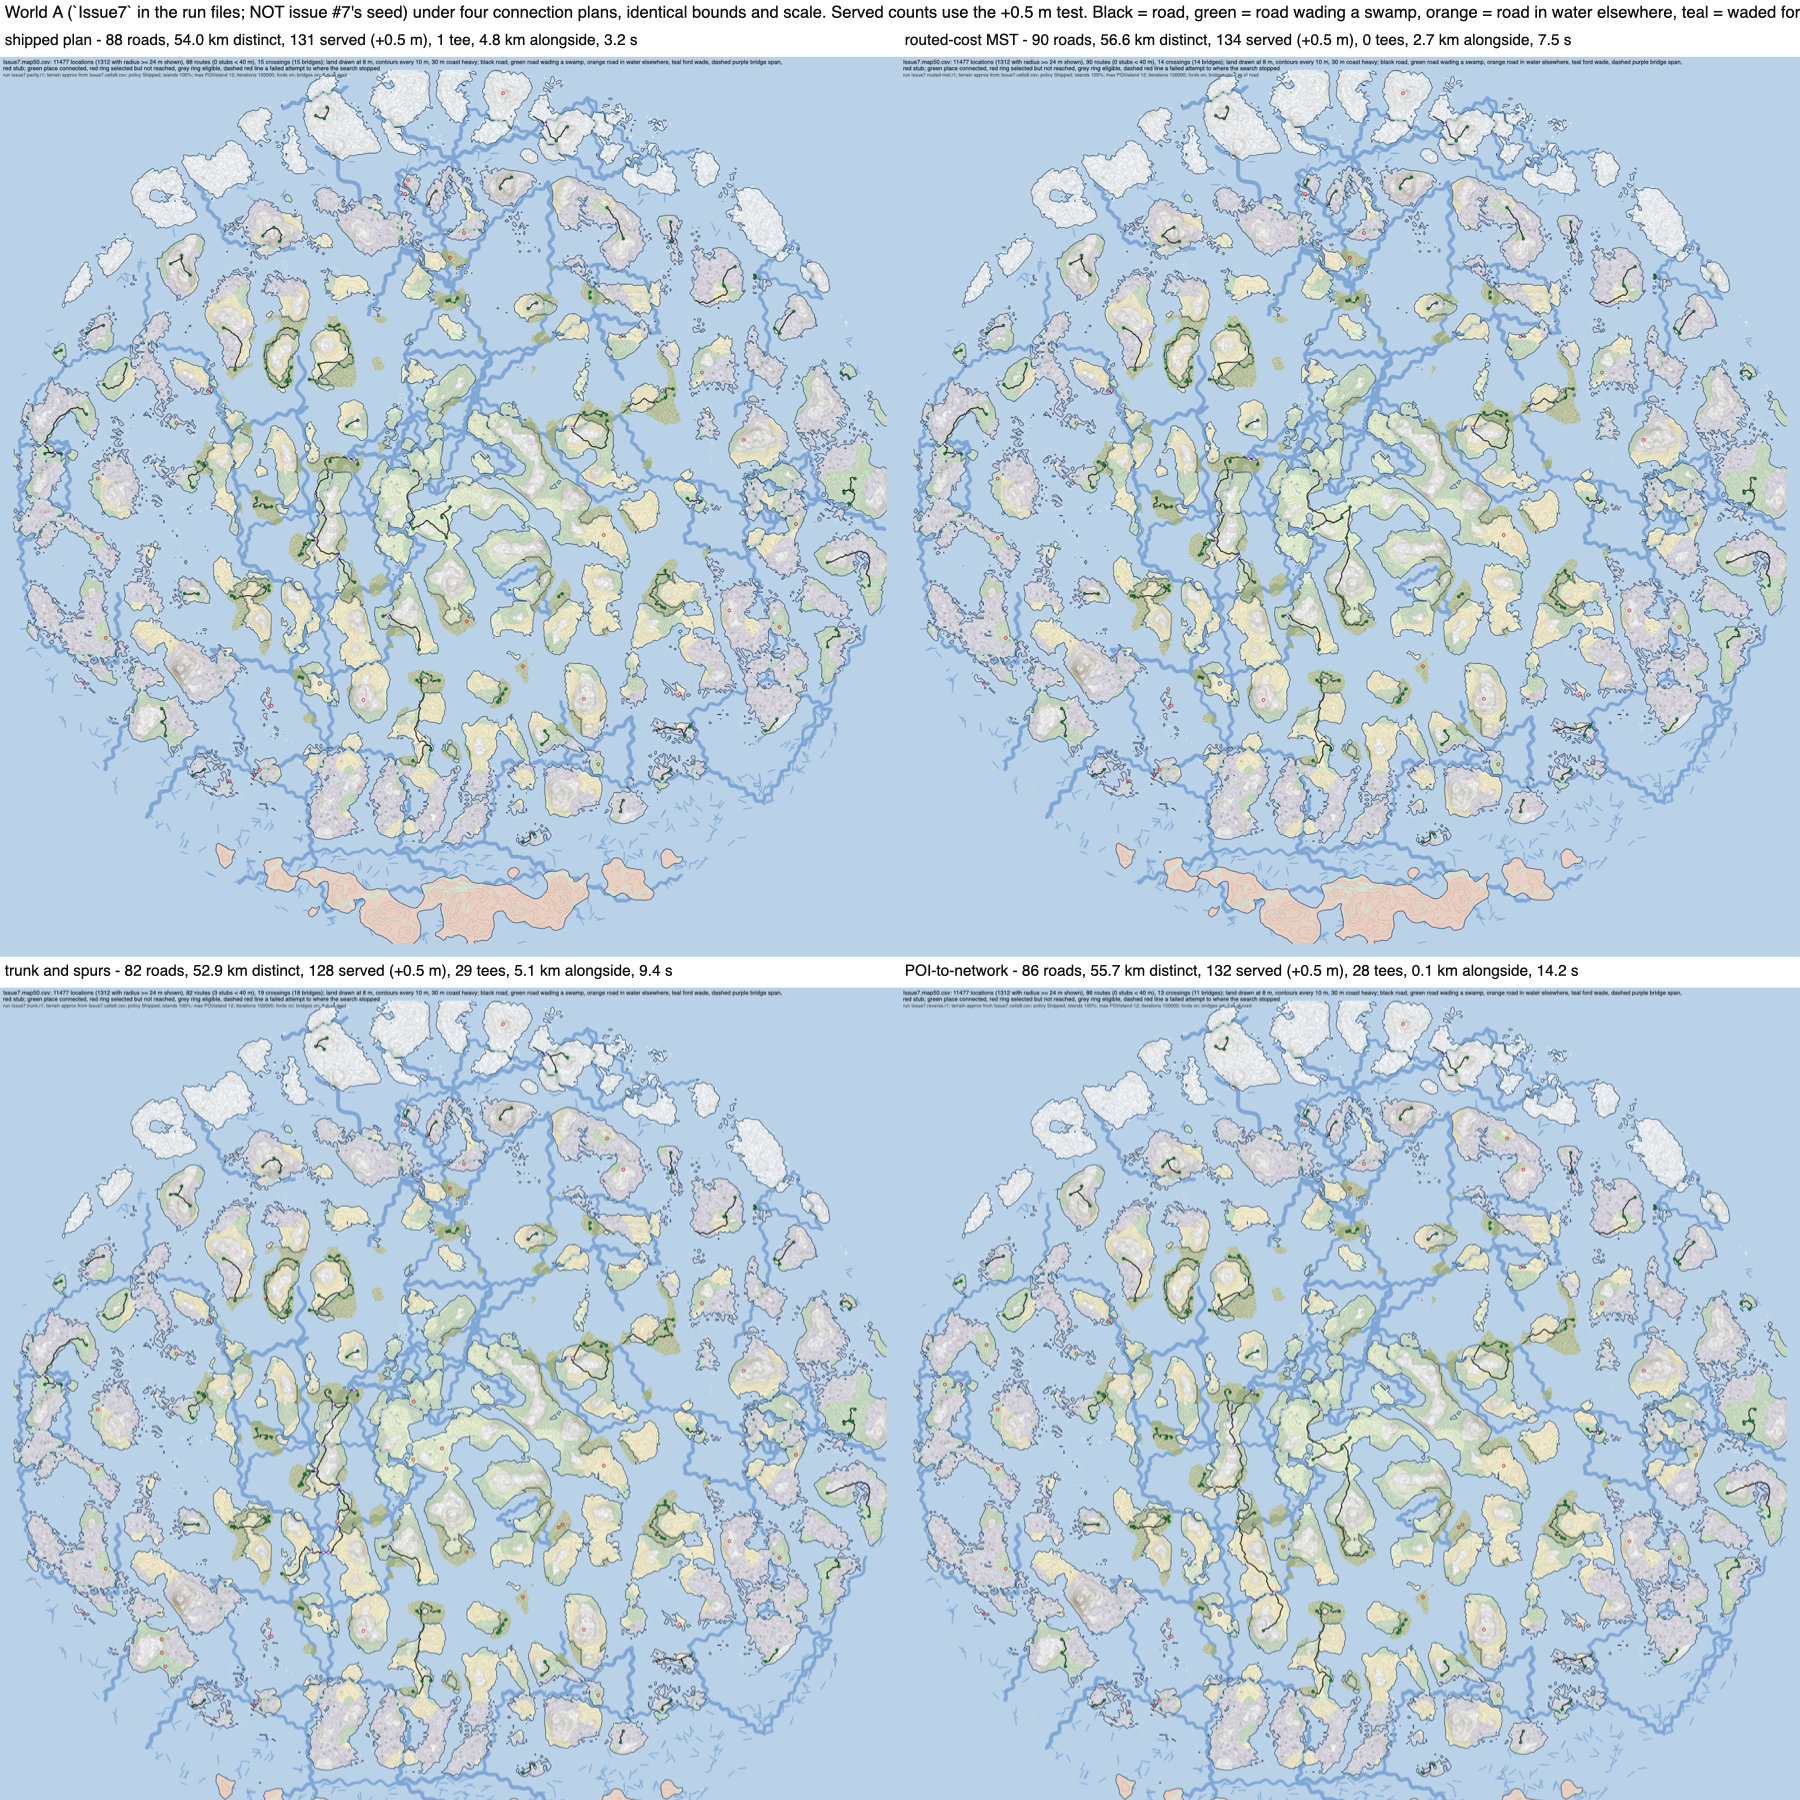
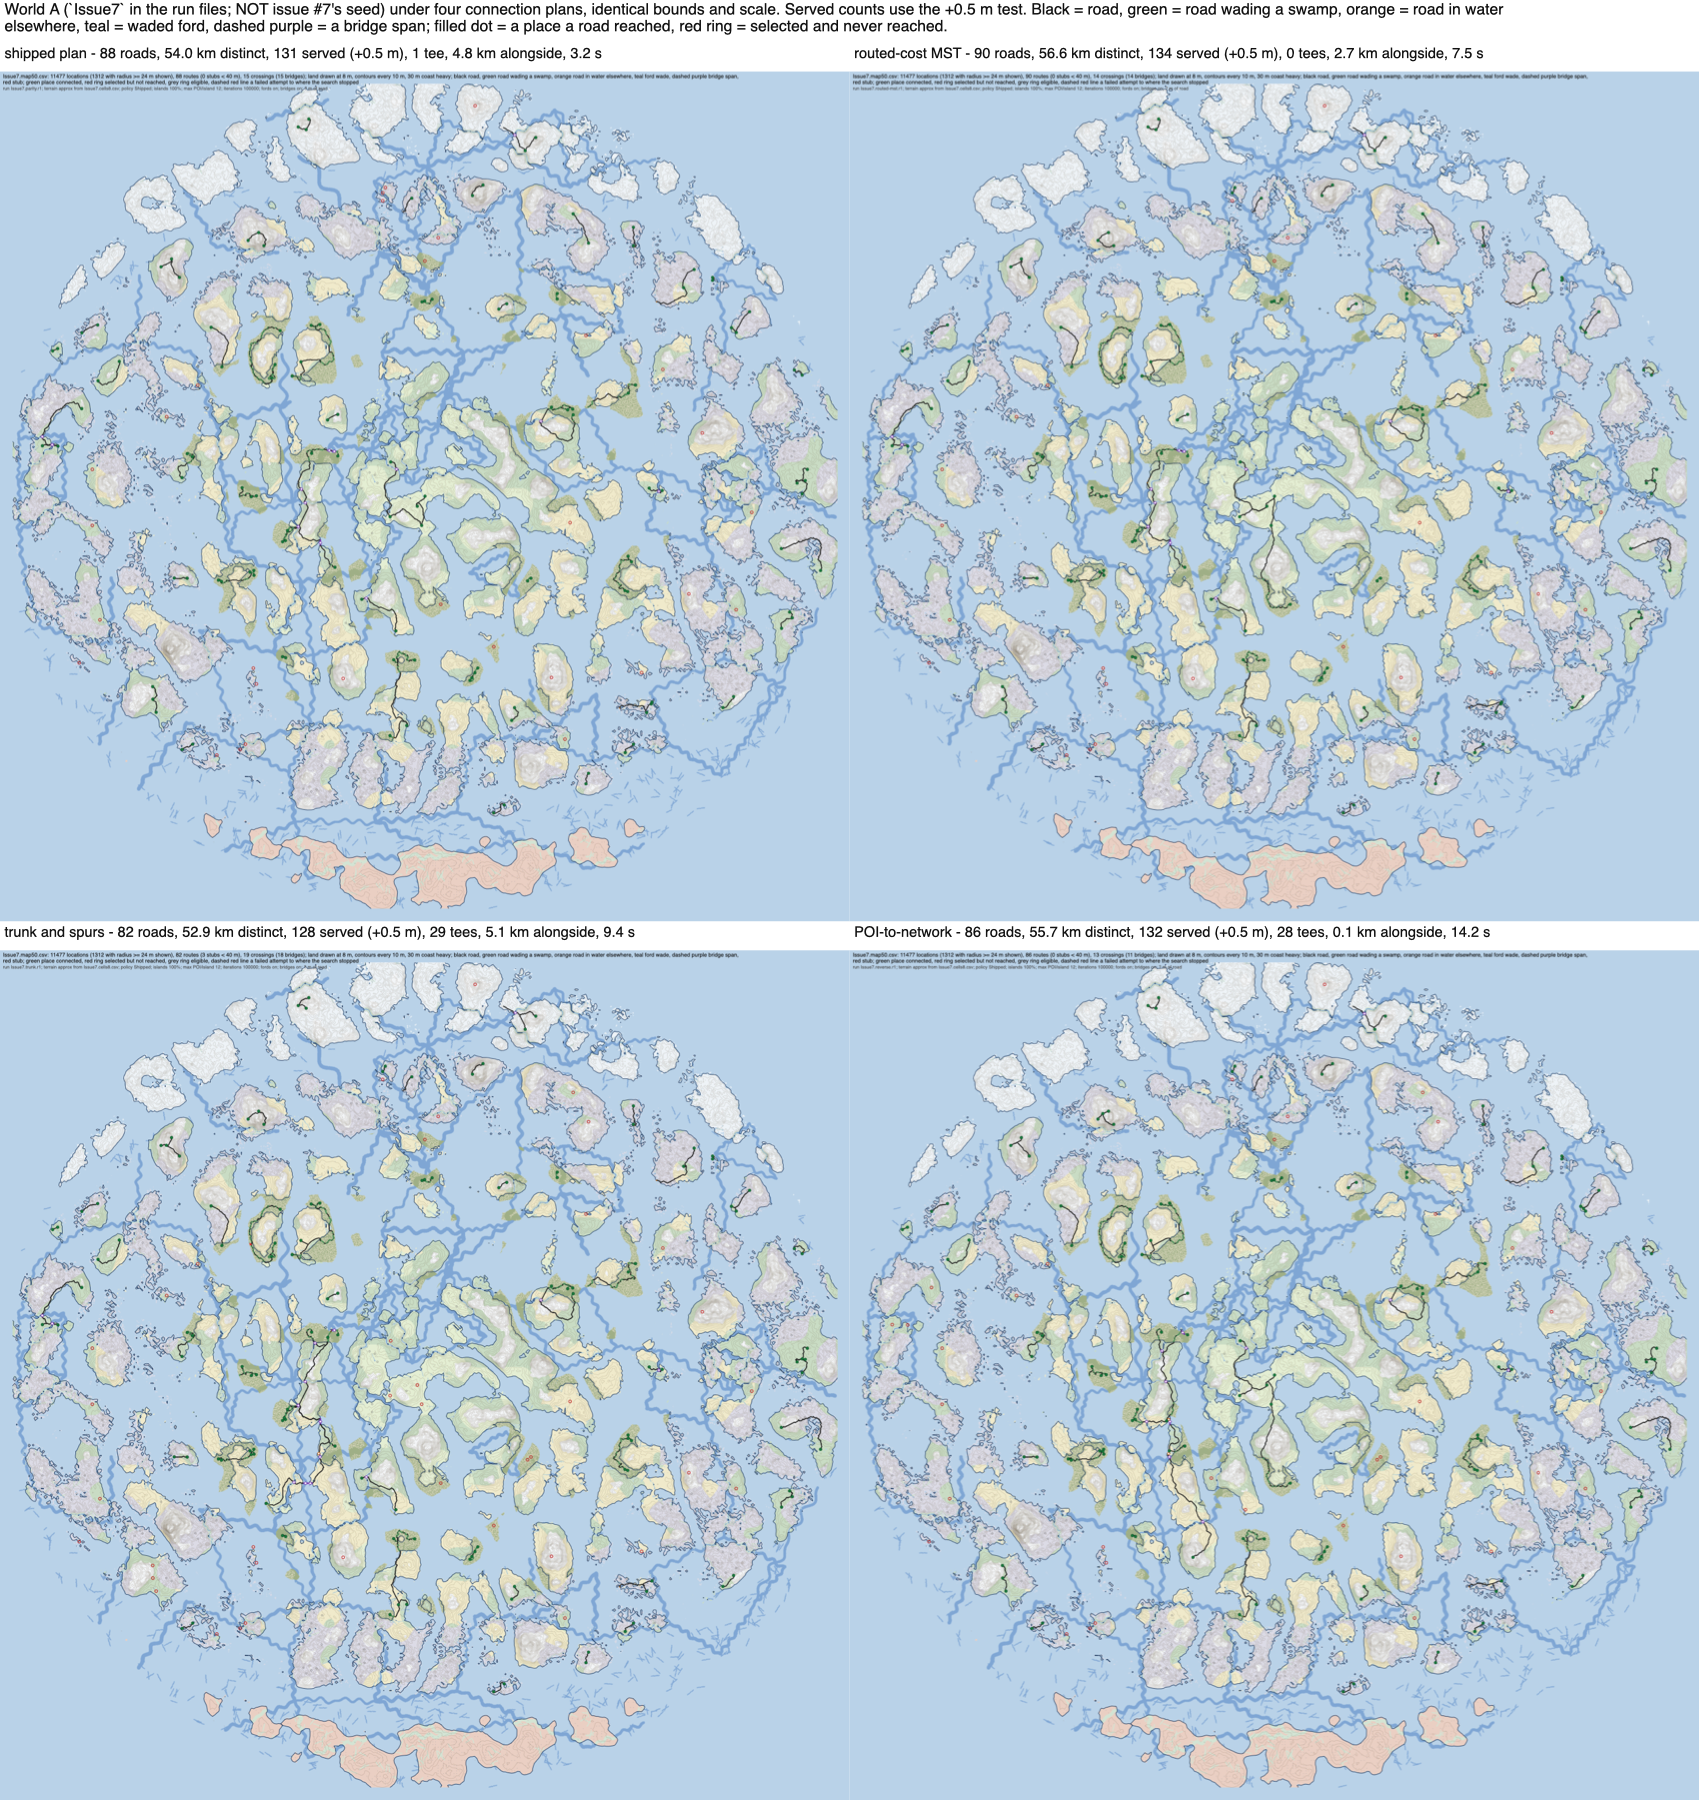
study data: regenerate the funnel, and stop the captions running off the images
The funnel was never regenerated -- only its pinned URL was changed, which
preserved a figure titled 'issue seed', reporting 129 planned-and-built where
the table beside it says 128 connected, with its largest value clipped off the
right-hand edge. Rebuilt from the table's own numbers, titled world A, nothing
clipped, and published in study-2026-09-10; the 2026-09-09 copy stays as the
historical artifact.

The clipping had the same cause as the charts': the rasteriser fits a drawing
into a square canvas and picks the dimension by aspect ratio, so a wide short
chart loses its right edge. study-charts.py now pads to a square like
study-comparison.py, and island-sheet.py wraps titles and panel captions into
space it reserves for them rather than writing one line and hoping.

world-svg.py gains --mark x,z[,label], which put a ring on the junction the tee
figure is about -- and immediately earned itself: the shipped plan lays no road
within 290 m of that spot, so the panel's caption, which had described one road
crossing it, was wrong. The two plans route this ground differently, and the
figure now says that.

diff --git a/docs/road-network-strategies.md b/docs/road-network-strategies.md
@@ -65,8 +65,11 @@ connection. The endpoint-height screen on world A helps prioritise inspection;
 it does not bound traversal risk. Gameplay validation remains outstanding, and
 nothing here has been played.
 
-Every chart and map in this document plots the **+0.5 m** serving count, which
-is 5 to 8 higher per run than the strict one; the tables give both.
+The planner-comparison charts and the world and island maps use **served
+(+0.5 m)**. The quota chart uses the strict served count; the funnel reports
+selection and connection outcomes, not coverage; the plateau, shore and centre
+charts do not measure coverage at all. Each figure names its own metric. Across
+the twelve planner runs the tolerance adds between 2 and 10 places.
 
 ![four planners, three worlds: coverage, road and time](https://raw.githubusercontent.com/tvongaza/ProceduralRoads/3d14749e6451e25fd5e34d7ae884e50db94745a4/validation-results/screenshots/study-2026-09-10/chart-tradeoff.png)
 
@@ -145,7 +148,7 @@ Defined once, used throughout.
 | **planning searches** | pathfinder calls a plan ran to *price* a candidate edge before choosing. They lay no road and are not in the attempt log. |
 | **total searches** | the two added. This is the work a plan costs. |
 | **roads** | searches that returned a route and were painted. |
-| **planned and built** | places sitting at an end of one of those roads, matched by the place's own coordinates within 1.5 m. |
+| **planned and built** | places sitting at an end of one of those roads, matched by the place's own coordinates within 1.5 m. On the study baseline this is 129 against the 128 selected places connected, the extra one being the start temple, which is an anchor rather than a destination. |
 | **served** | places with a road end within 25 m, or within the place's own exterior radius if that is larger. |
 | **distinct road** | length of road on the ground, counting a stretch used twice once. |
 | **summed over routes** | every route's length added up, so shared road counts twice. |
@@ -186,7 +189,13 @@ Of the eligible places, by what became of them:
 | attempted, search frontier exhausted | 29 | 32 | 29 |
 | attempted, iteration budget spent | 1 | 0 | 1 |
 
-![the funnel from placed to connected](https://raw.githubusercontent.com/tvongaza/ProceduralRoads/3d14749e6451e25fd5e34d7ae884e50db94745a4/validation-results/screenshots/study-2026-09-09/chart-funnel.png)
+![the funnel from placed to connected](https://raw.githubusercontent.com/tvongaza/ProceduralRoads/3d14749e6451e25fd5e34d7ae884e50db94745a4/validation-results/screenshots/study-2026-09-10/chart-funnel.png)
+
+The funnel's last bar is the table's last row, 128 — selected places whose
+planned road was built. **Planned and built** counts 129 on the same run,
+because it counts every place at the end of a road rather than only the
+selected ones, and the 129th is the start temple, which is an anchor rather
+than a road destination.
 
 **Ninety-three per cent of eligible places never get an attempt.** The quota is
 `2 + area / 2 km²`. These worlds have a median island under 2 km², so more than
@@ -533,7 +542,9 @@ least efficient point on the curve for road per place reached.
 Arrangement alone moves coverage from 109 to 142, a wider spread than any
 planner change measured here: choosing destinations near one another is worth
 more than choosing cleverly between them, and deliberately spreading them —
-which sounds like what a road network wants — is the worst of the four.
+which sounds like what a road network wants — spends the most road per place
+reached of the four, 731 m against 305. The fewest places served is the fixed
+draw's 109.
 
 | preset | selected | roads | summed | served | connect rate |
 |---|---|---|---|---|---|
@@ -563,7 +574,8 @@ measurement in the study.
 | bridges only | 57 | 30.6 km | 86 |
 | both | 88 | 58.5 km | 123 |
 
-Crossings are worth more than any other single lever measured. In game, on one
+Crossings are worth more than any other **routing** switch measured — the quota
+in the table above moves coverage far further. In game, on one
 world state: neither, 49 roads; fords only, 90 roads with **three river fords in
 the whole world**; both, 98 roads with 15 crossings. Fords add 41 roads and
 almost none of it is river crossing — it is the swamp wading that comes with the
@@ -581,8 +593,8 @@ builds the same network out of less road; it does not reach more places.**
 ## 6. Recommendation, and what would change it
 
 **Improve selection first.** Arrangement at a fixed count moves coverage by 33
-places where no planner moved it by more than 5. If one change is made, make
-the quota choose priority-then-nearest.
+places on world A, where on that world no planner moved it by more than 5. If
+one change is made, make the quota choose priority-then-nearest.
 
 **Advance two planners, for different reasons.** Routed-cost MST is the
 strongest candidate for preserving destination coverage among those tested —
@@ -595,13 +607,16 @@ has not been run.
 
 **Deprioritise trunk-and-spurs**, which buys junctions by not reaching things.
 
-**Raise the shipped iteration budget, but expect little above 30 000.** The
-"one attempt in 158" figure everywhere else in this document is at the study
-baseline's 100 000. The mod ships at **10 000**, where 33 of 158 attempts stop
-at the cap, and on world A raising it recovers real coverage: 10 000 → 30 000
-takes 74 roads to 84 and 108 places served to 118, and 30 000 → 100 000 adds
-four roads and five places. What it cannot do is reach the ~93 % of eligible
-places that selection never chose, which is the issue's actual cause.
+**Test 30 000 as a candidate iteration default.** On world A, with every other
+study setting held constant, it added ten roads and ten strictly served places
+over the shipped 10 000 — where 33 of 158 attempts stop at the cap, against one
+at the study baseline's 100 000, which is the figure quoted everywhere else
+here. Above 30 000 the returns are small: 30 000 → 100 000 adds four roads and
+five places. Two limits on that: the sweep varies the iteration value inside
+the study configuration (every island, both crossings), not a whole shipped
+default; and no budget reaches the ~93 % of eligible places selection never
+chose. **Selection remained the dominant source of sparseness in the worlds
+tested; the reporter's world remains untested.**
 
 **What evidence would change this.** One table, in order of how much each would
 move the recommendation.
@@ -654,8 +669,8 @@ from the game's line and one existed only in game.
 | grow from the network | nearest waiting place attaches to the nearest point on the road | world A | 82 roads, 116 served, 15 tees, 1.6 km alongside | deprioritise |
 | candidate-set width for routed MST | 3, 6, 12, 24 neighbours priced | world A | flat from 6 onward; the water binds, not the candidates | settled |
 | anchor walked onto land | first point above the waterline | world A | 32 stillborn attempts become 5, +19 % road, +1 served | advance, cheap |
-| anchor on a place | highest-priority place on the island | world A | 0 stillborn, a third of the attempts, +1 served | advance, cheap |
-| quota by priority-then-nearest | selection, not planning | 3 worlds | 123 → 142 served | **advance first** |
+| anchor on a place | highest-priority place on the island | world A | 0 stillborn, a third fewer attempts (109 against 158), +1 served | advance, cheap |
+| quota by priority-then-nearest | selection, not planning | world A | 123 → 142 served | **advance first** |
 | road-sharing discount | existing road costs less to walk | world A, two densities | nothing at baseline; −12 km distinct at every place | conditional |
 | larger iteration budget | 5 000 → 120 000 | world A | from the shipped 10 000: +10 roads and +10 served by 30 000, +4 and +5 more by 100 000; flat above | raise the default, expect little past 30 000 |
 | longer bridge span | not run — see Appendix B | — | — | untested |

diff --git a/validation-results/screenshots/study-2026-09-10/README.md b/validation-results/screenshots/study-2026-09-10/README.md
@@ -19,12 +19,15 @@ waded ford, dashed purple for the unpainted span of a bridge.
 | island54-planners.png | the island with the most coast for its area (0.74 edge cells per land cell) under all four plans |
 | chart-tradeoff.png | places served against distinct road, per plan and per world, with generation time in its own panel |
 | chart-coverage.png | places served by category, four plans, with boss altars marked as the required ones |
-| tee-example.png | one junction under the shipped plan and under POI-to-network, at 1.24 km across: what a tee looks like against a road that nothing joins |
+| tee-example.png | the same 1.24 km of world A under the shipped plan and under POI-to-network, with the spot ringed on both |
+| chart-funnel.png | places in the world and what became of them - regenerated from the same numbers as the document's table; the copy in `study-2026-09-09` still says "issue seed" and reports planned-and-built (129) rather than the table's connected (128) |
 
-**All served counts on these images use the +0.5 m serving test** (see the
-document's section 2); the strict count is 5 to 8 lower per run. Worlds are
-named A, B and C as in the document — world A is `Issue7` in the run files and
-is **not** issue #7's own seed.
+**The planner-comparison charts and the maps use the +0.5 m serving test** (see
+the document's section 2); across the twelve planner runs it counts 2 to 10
+more places than the strict test. `chart-funnel.png` is not a coverage figure at
+all — its last bar is connected places. Worlds are named A, B and C as in the
+document; world A is `Issue7` in the run files and is **not** issue #7's own
+seed.
 
 The three islands were chosen on the measured terrain in
 `../../study-2026-09-10/Issue7-island-terrain.txt`, not by eye. The charts
